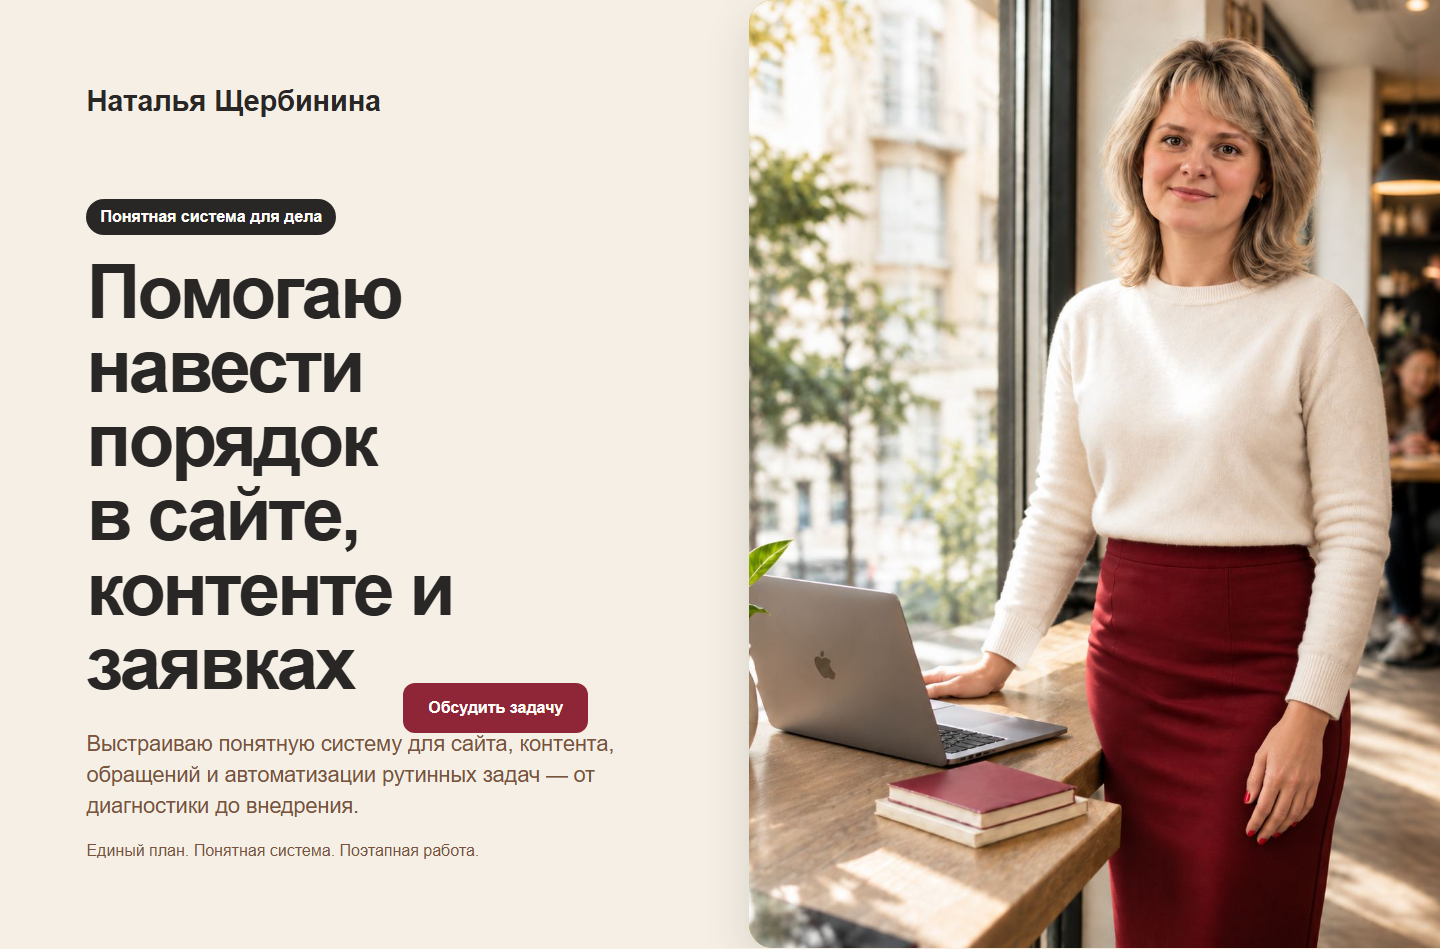
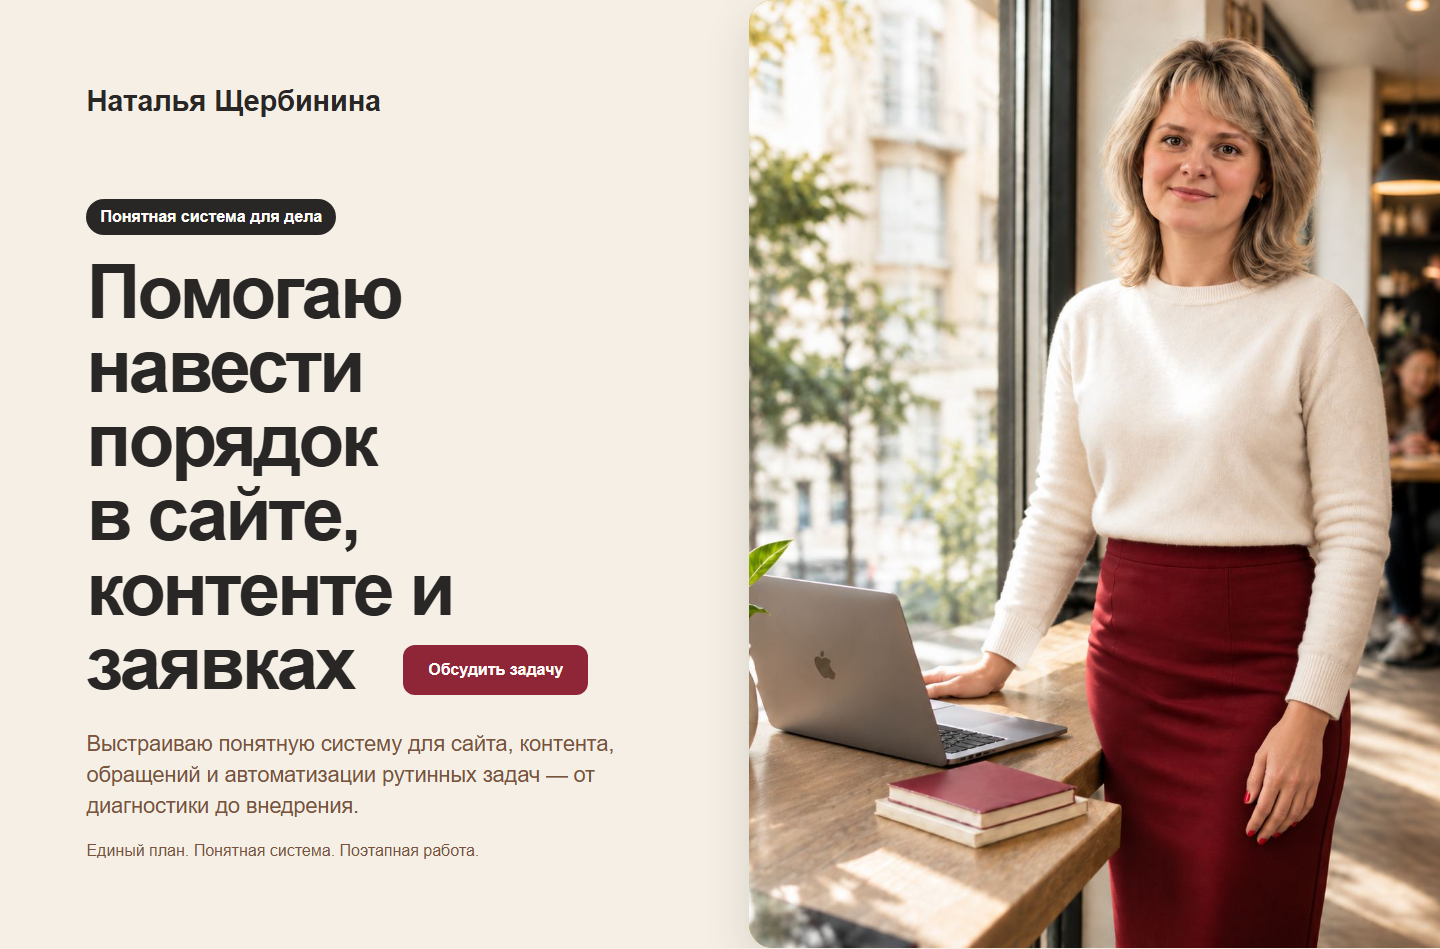
Обновление 24.09 12:26 МСК

Changed region(s): [[0.2812, 0.6723, 0.4062, 0.7945]]

diff --git a/index.html b/index.html
@@ -67,7 +67,7 @@
   .hero h1 em{font-style:normal;color:inherit}
   .hero__lead{max-width:650px;margin:28px 0 0;color:#79533B;font-size:clamp(17px,1.5vw,22px);line-height:1.45}
   .hero__action{margin-top:32px;display:inline-flex;align-items:center;justify-content:center;padding:16px 25px;border-radius:12px;background:#8F2638;color:#FFFDF9;text-decoration:none;font-weight:700;font-size:16px;transition:background .2s}
-  @media(min-width:900px){.hero__copy{position:relative}.hero__action{position:absolute;left:clamp(300px,28vw,410px);top:72%;margin-top:0}}
+  @media(min-width:900px){.hero__copy{position:relative}.hero__action{position:absolute;left:clamp(300px,28vw,410px);top:68%;margin-top:0}}
   .hero__action:hover{background:#70202E}.hero__action:active{background:#5B1A26}
   .hero__trust{margin:18px 0 0;color:#79533B;font-size:16px;line-height:1.4}
   .hero__photo{min-height:100vh;position:relative;background:#D8A132;overflow:hidden}
